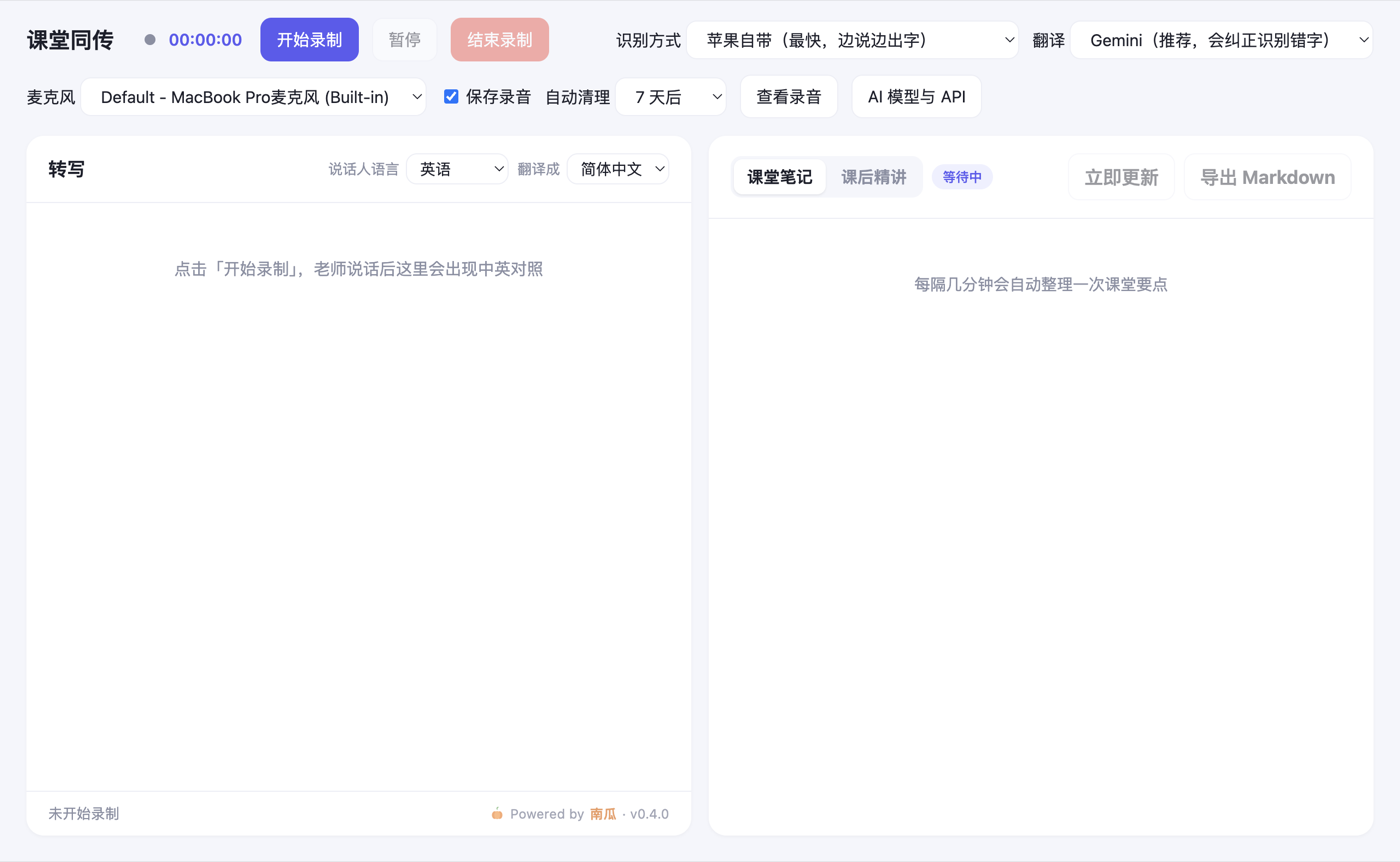
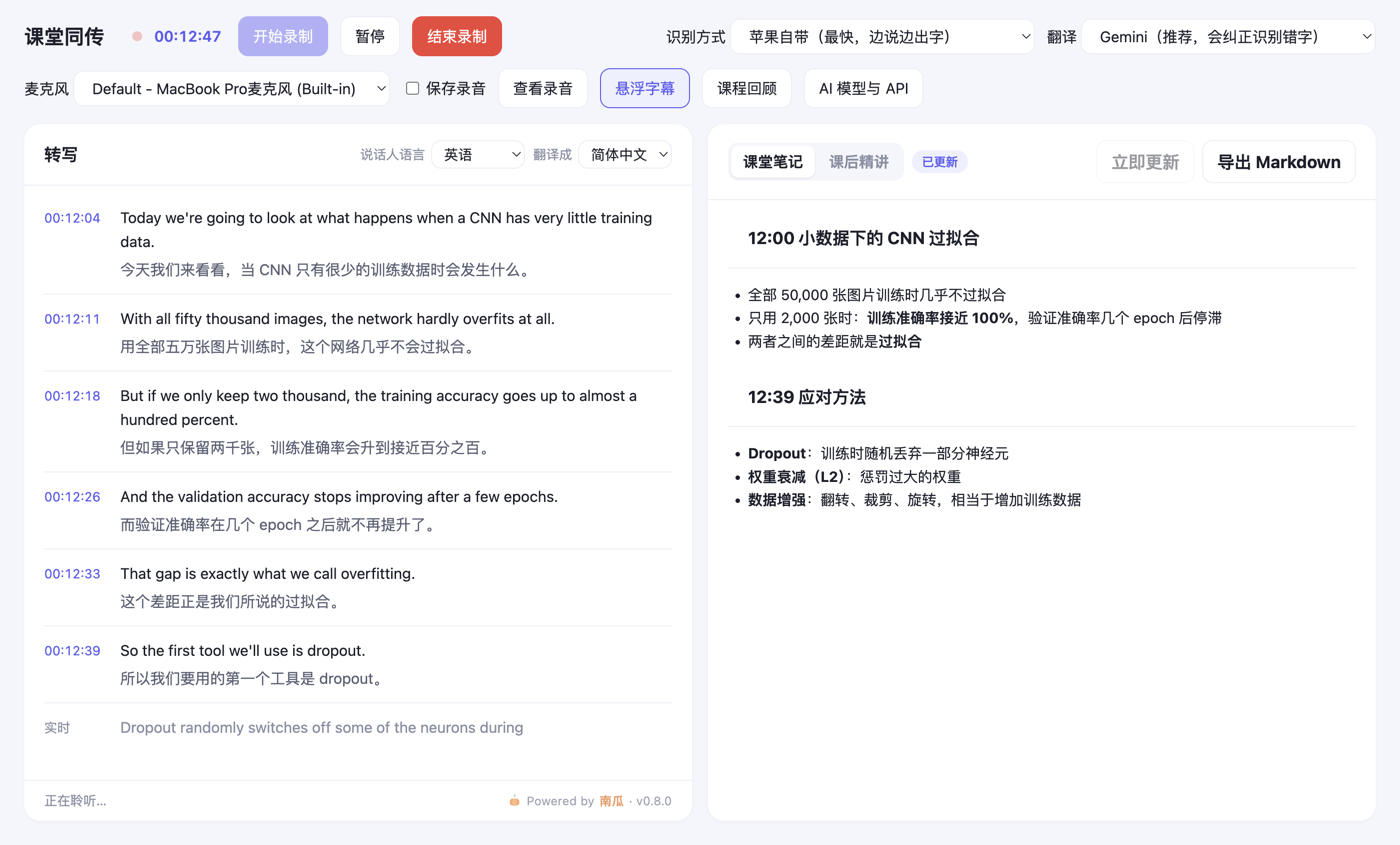
README：主界面截图更新到 0.8.0，加上悬浮字幕截图

diff --git a/README.md b/README.md
@@ -24,6 +24,10 @@
 - **课程回顾**：点「课程回顾」，随时查看任意一节课的课堂笔记、中英转写和课后精讲，可以回听、导出；不影响正在录的课
 - **悬浮字幕**：看 PPT 或网课时，点「悬浮字幕」（或按 Mac 上的 ⌘⇧Y、Windows 上的 Ctrl+Shift+Y），字幕会浮在所有窗口最上层，PPT 全屏放映时也看得到。只显示老师正在说的这句和翻译；按住上边往上拉，可以多显示前面几句
 
+看 PPT 时打开悬浮字幕，字幕浮在 PPT 上面：
+
+![悬浮字幕盖在 PPT 上](docs/images/overlay.png)
+
 ## 支持哪些电脑
 
 | 电脑 | 语音识别 | 能不能录电脑内部声音 |
